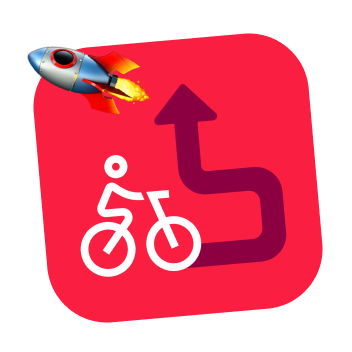
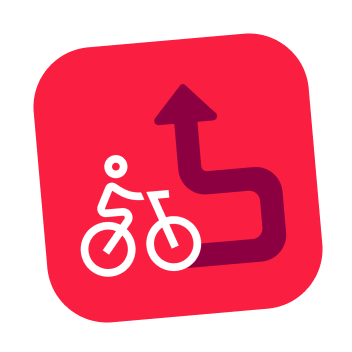
Refactor wiki article priobike projekt

Changed region(s): [[0.0625, 0.125, 0.4375, 0.3438]]

diff --git a/lib/wiki/articles.dart b/lib/wiki/articles.dart
@@ -67,13 +67,13 @@ final Article articleSGSelector = Article(
 /// Article about PrioBike
 final Article articlePrioBike = Article(
   "Das Projekt",
-  "Wenn Radfahren zur Raketenwissenschaft wird",
+  "Wenn Radfahren zur Wissenschaft wird",
   "3 min.",
   "assets/images/wiki/wiki-das-projekt-icon.png",
   [
-    "Hallo liebe Radfahrerinnen und Radfahrer! Ich bin PrioBike, eure freundliche Fahrrad-App. Aber ich bin nicht nur eine App, sondern Teil eines großen Projekts, das Hamburg zu einer fahrradfreundlichen Stadt machen will. Das Projekt ist so cool, dass man fast vergisst, dass es sich um Stadtplanung handelt.",
-    "Unser neuestes Ding ist die \"Grüne Welle\" entlang dreier Velorouten. Wenn ihr diese Routen benutzt, werdet ihr nicht nur mit frischer Luft und einer schönen Aussicht belohnt, sondern auch mit einer dynamischen Ampelschaltung, die euch mit 18 km/h bei Grün durchfahren lässt. Wenn das kein Grund ist, sich aufs Rad zu schwingen, weiß ich auch nicht weiter.",
-    "Aber das ist noch lange nicht alles. Habt ihr schon die PrioBike-Säule auf der Rothenbaumchaussee entdeckt? Sie ist einzigartig in Deutschland und berechnet für jeden Radfahrenden eine individuelle Geschwindigkeitsempfehlung. Das ist fast so cool wie ein Fahrrad mit Raketenantrieb.",
+    "Hallo liebe Radfahrerinnen und Radfahrer! Ich bin PrioBike, eure freundliche Fahrrad-App. Aber ich bin nicht nur eine App, sondern Teil eines großen Projekts, das Hamburg zu einer fahrradfreundlichen Stadt machen will.",
+    "Unser neuestes Ding ist die \"Grüne Welle\" entlang dreier Velorouten. Wenn ihr diese Routen benutzt, werdet ihr nicht nur mit frischer Luft und einer schönen Aussicht belohnt, sondern auch mit einer statischen Grünen Welle, die euch mit 18 km/h bei Grün durchfahren lässt. Wenn das kein Grund ist, sich aufs Rad zu schwingen...",
+    "Aber das ist noch lange nicht alles. Habt ihr schon die PrioBike-Säule auf der Rothenbaumchaussee entdeckt? Sie ist einzigartig in Deutschland und berechnet für jeden Radfahrenden eine individuelle Geschwindigkeitsempfehlung.",
     "Und als ob das noch nicht genug wäre, gibt es an einer Kreuzung sogar eine Umkehrung der klassischen Ampel-Priorisierung. Hier wird der Fuß- und Radverkehr bevorzugt, während der Kfz-Verkehr grünes Licht nur bei Bedarf erhält. Das ist wie ein Fußballspiel, bei dem die Fans die Schiedsrichter sind.",
     "Und wenn ihr denkt, das war schon alles, täuscht ihr euch. Wir haben noch viele weitere Radinfrastrukturverbesserungen in petto, wie die Erweiterung der Velorouten und vieles mehr. In Zukunft werden wir euch noch mehr coole Dinge bieten, damit ihr eure Radtouren in vollen Zügen genießen könnt.",
     "Also schnappt euch euer Fahrrad und macht euch auf den Weg. Und wer weiß, vielleicht findet ihr ja sogar ein paar versteckte Witze auf eurem Weg.",
